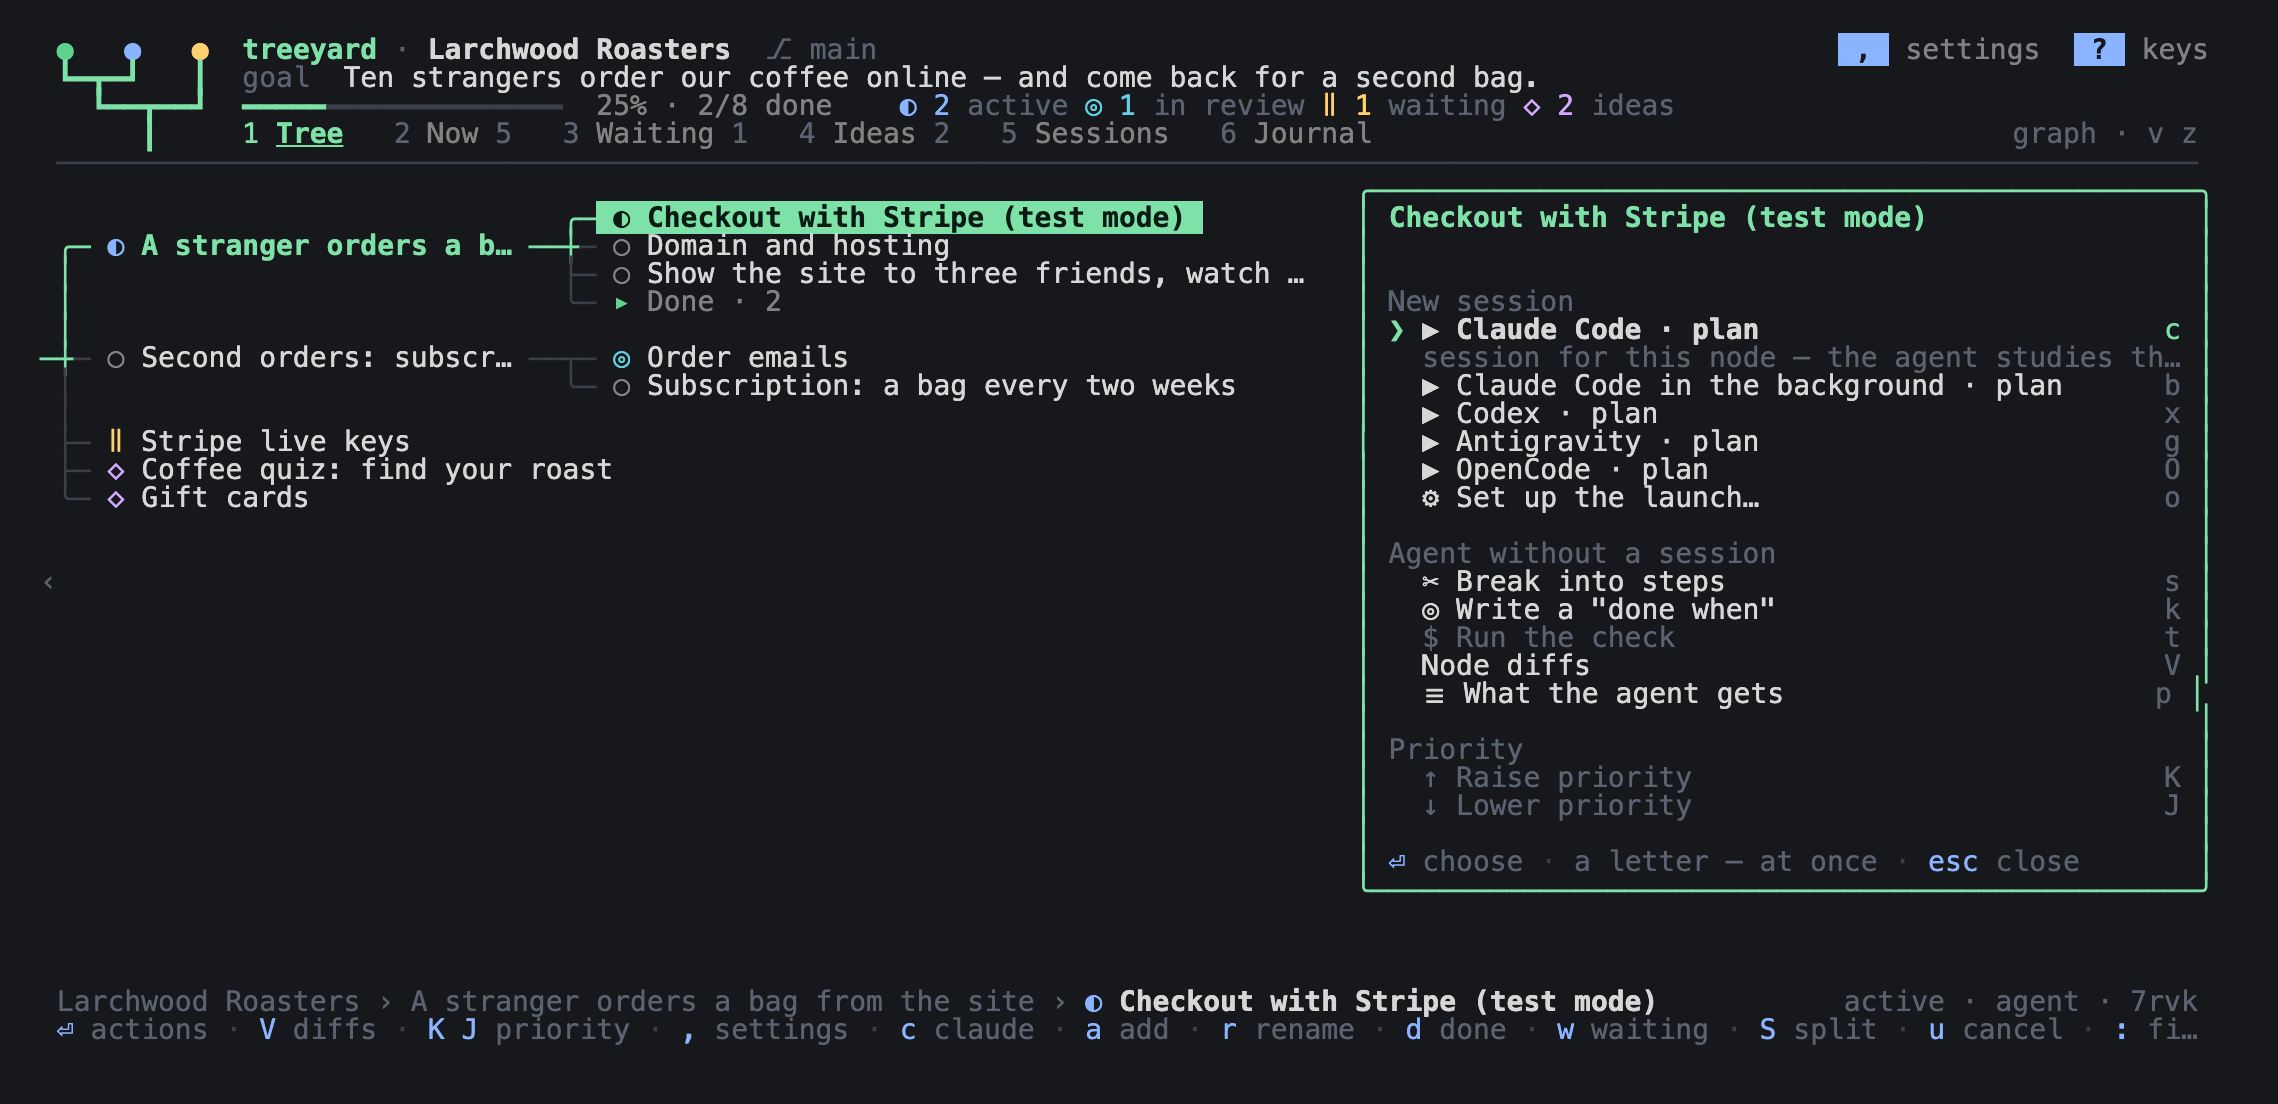
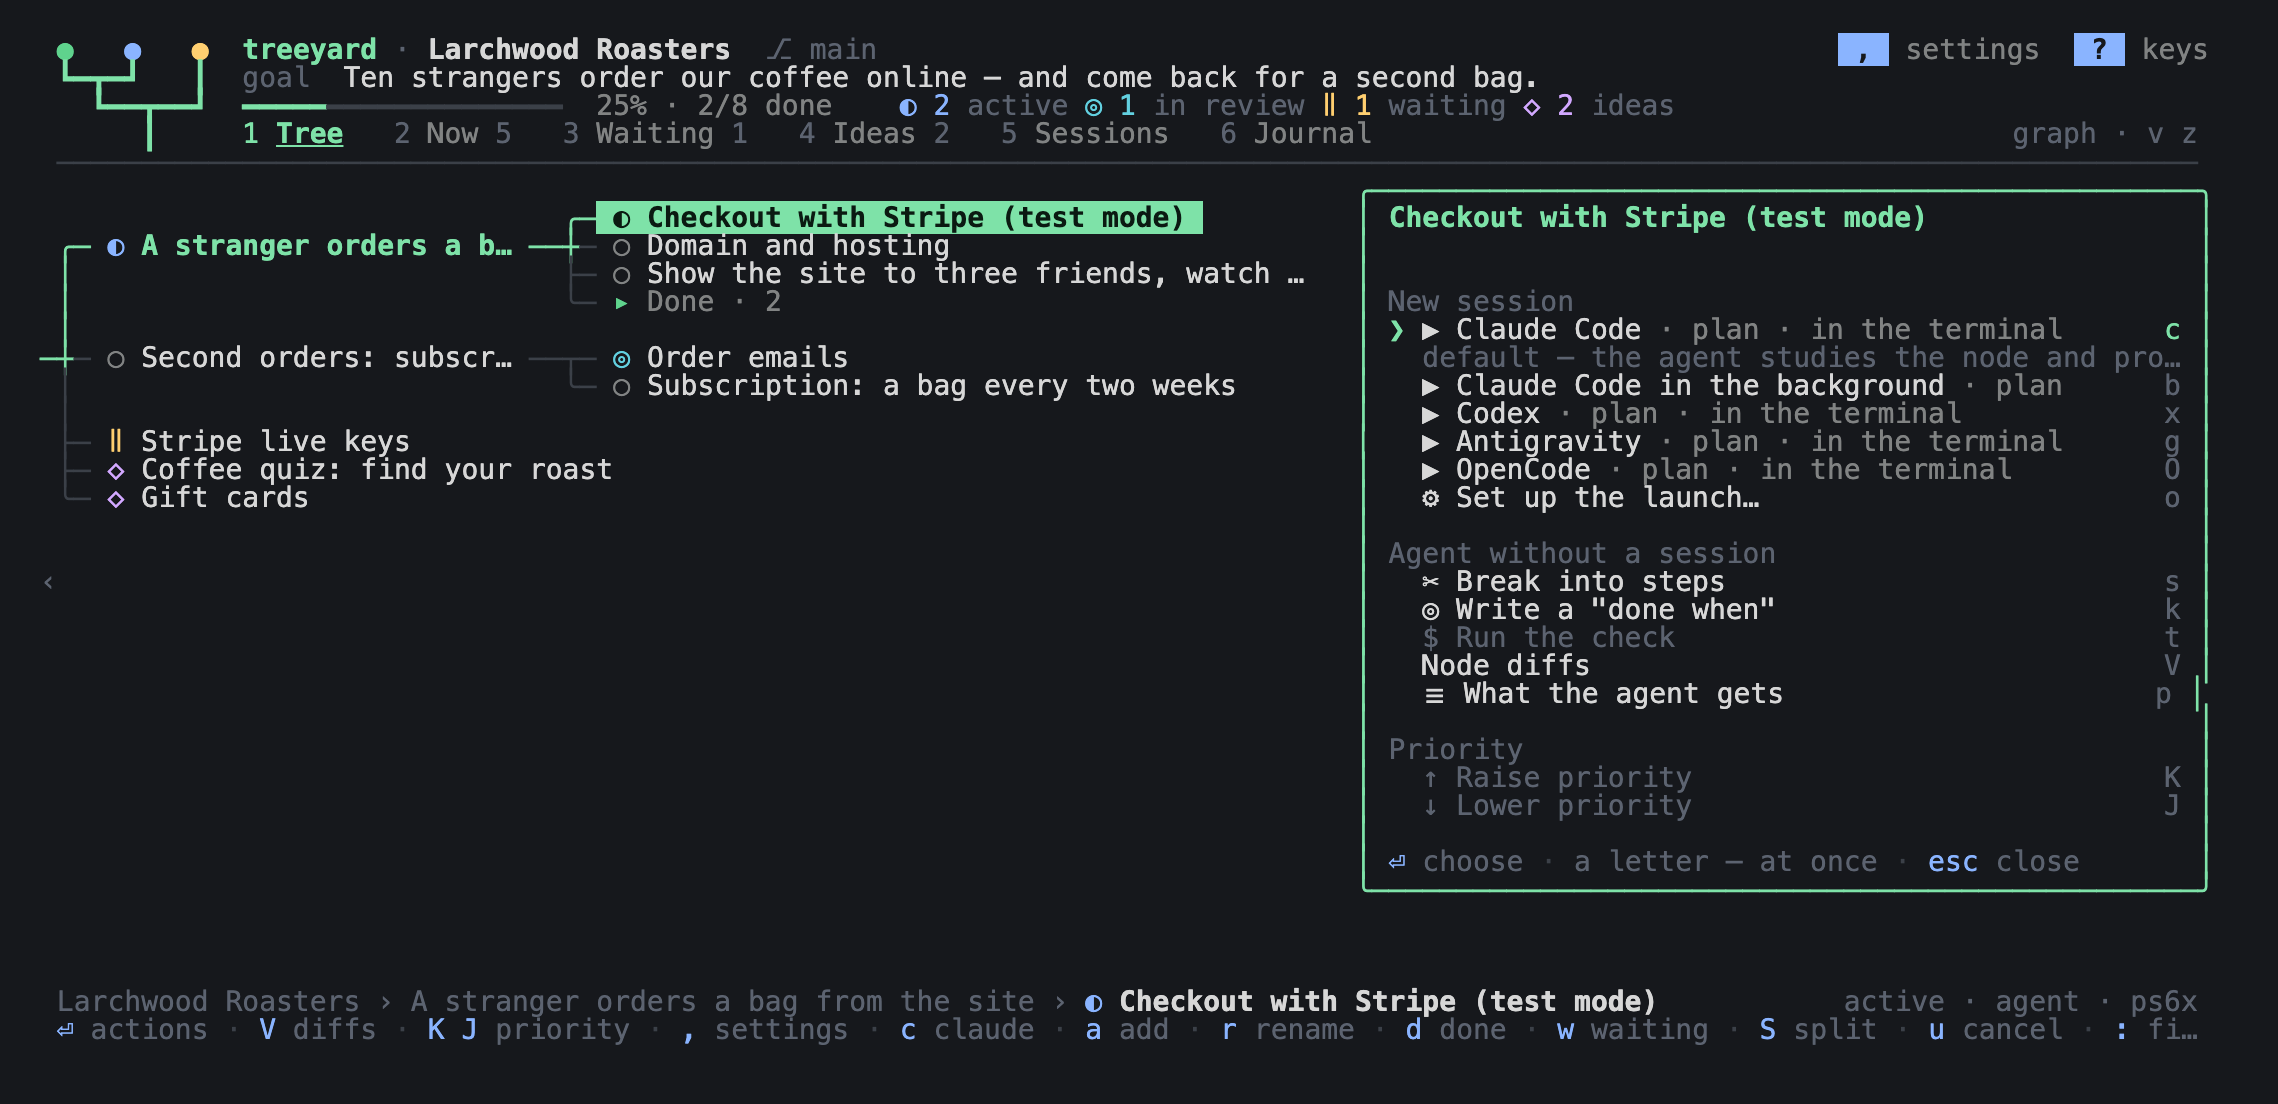
docs(readme): retake screenshots; the staged project tells its agents about the tree

Changed region(s): [[0.6234, 0.2772, 0.935, 0.4312], [0.935, 0.8931, 0.9662, 0.9239]]

diff --git a/scripts/readme-screenshots.ts b/scripts/readme-screenshots.ts
@@ -86,6 +86,9 @@ async function shoot(lang: Lang): Promise<void> {
   git('commit', '-q', '--allow-empty', '-m', 'First commit');
   treeyard('import', '--from-json', TREES[lang]);
   hideGithubOffer(dir);
+  // A planted project tells its agents about the tree; without it the header warns.
+  writeFileSync(join(dir, 'AGENTS.md'), '# Larchwood Roasters\n');
+  treeyard('pointer');
 
   const planned = JSON.parse(readFileSync(TREES[lang], 'utf8')) as { nodes: PlannedNode[] };
   const ids = idsByTitle(JSON.parse(treeyard('show', '--json')).nodes);
